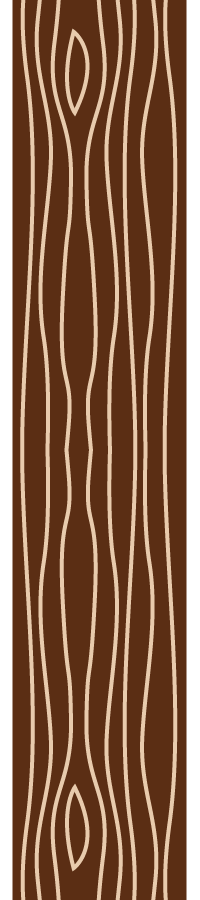
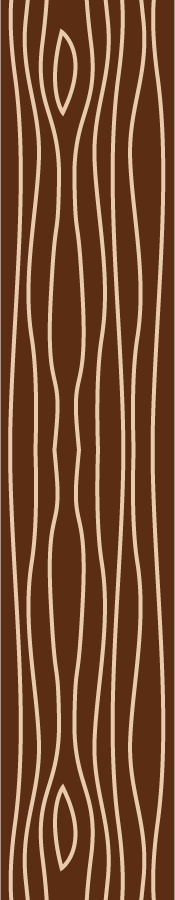
Ajout collision tronc

diff --git a/arcade/src/states/Splash.js b/arcade/src/states/Splash.js
@@ -14,7 +14,7 @@ export default class extends Phaser.State {
     // load your assets
     //
     this.load.image('mushroom', 'assets/images/mushroom2.png')
-    this.load.image('tree', 'assets/images/tree.png');
+    this.load.image('tree', 'assets/images/Tronc.png');
     this.load.spritesheet('vipi', 'assets/images/Vipi.png', 261, 194, 3);
   }
 

diff --git a/arcade/src/states/Game.js b/arcade/src/states/Game.js
@@ -38,7 +38,7 @@ export default class extends Phaser.State {
 
     this.treeLeft = new Tree({
       game: this.game,
-      x: 0,
+      x: -125,
       y: 0,
       asset: 'tree'
     });
